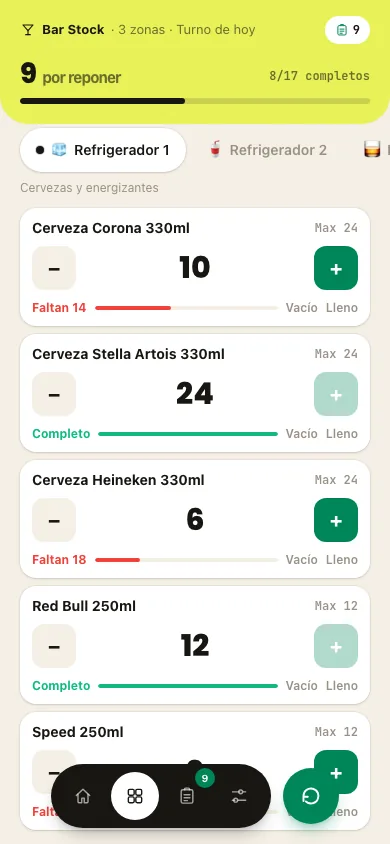
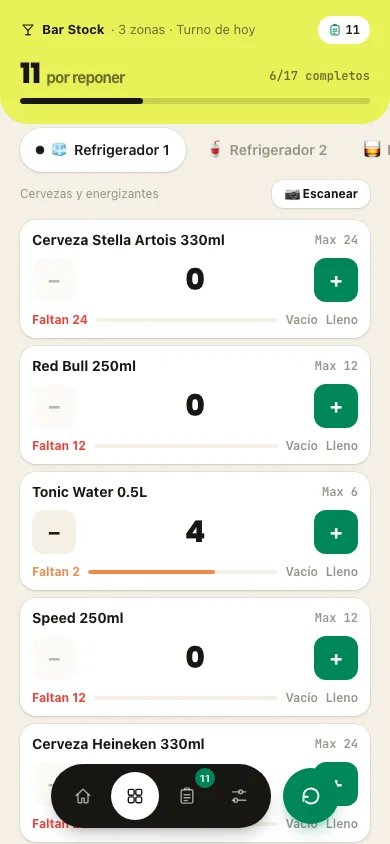
Reposition RunUp case study around AI integration
Rewrites the process/result copy and category/role/tools to foreground
the vision-based stock counting and Firestore sync work, and swaps the
zone screenshot for a real capture of the app showing the new Escanear
button.

Claude-Session: https://claude.ai/code/session_01JH2KwqAsVC85CMJ3pF2JKb

diff --git a/src/data/projects.ts b/src/data/projects.ts
@@ -303,19 +303,19 @@ export const projects: Project[] = [
 	{
 		slug: 'runup',
 		name: 'RunUp',
-		category: 'Bar Inventory · PWA',
+		category: 'AI Integration · PWA',
 		year: '2026',
 		client: 'Personal project',
-		role: 'Product Design + Development',
-		tools: 'React, Vite, Tailwind CSS',
+		role: 'Product Design + AI Integration + Development',
+		tools: 'React, Vite, Tailwind CSS, Claude API (vision), Firebase Firestore',
 		summary:
 			'An installable PWA that lets bar runners see restock status at a glance and generates an accurate shopping list from the deposit.',
 		challenge:
 			"Bars track fridge and shelf stock informally, so runners waste time re-checking what's actually missing and how much, shift after shift. When the deposit doesn't have enough of something, that shortage tends to get lost the moment the next shift starts.",
 		process:
-			"I built RunUp as a single-page installable PWA with no backend. Everything lives in one state hook and persists to the device's local storage. Each fridge or shelf is a 'zone' with its own products and ideal stock levels; the home screen shows what's empty, low, or full at a glance, and a picking list is generated automatically, grouped by zone, of exactly what to bring from the deposit. Critically, the app distinguishes between stock a runner actually restocked and a real deposit shortage, so gaps stay visible instead of quietly resetting at the next shift.",
+			"I designed and integrated the AI layer myself, not just the surrounding product. A runner photographs a fridge or shelf, and a Claude vision model returns a structured count for every expected product, using tool based output instead of free text so the result is always machine parseable. After comparing a few approaches for the counting problem, I chose calling a vision API directly over training a custom model, since it could be prototyped and validated in a real pilot without a training pipeline, accepting a small serverless function as the one piece of backend needed to keep the API key private. The design decision I care about most here is that the AI's count is never trusted directly: it surfaces on a review screen the runner can adjust bottle by bottle before anything touches real stock, because a wrong automatic count is worse than no automation at all in an inventory context. Alongside this, I built a real time sync layer with Firebase Firestore, so a scan on one runner's phone updates every other device live instead of staying an isolated local copy, which is what actually makes an automated count useful across a shift with more than one runner.",
 		result:
-			"RunUp is currently being tested by real runners during service at a bar: an active pilot, not just a prototype.",
+			"RunUp is an active pilot at a real bar, not just a prototype. The core picking-list workflow has already been in daily use by runners, and the AI photo count and multi-device sync are now shipped too, with a runner currently testing them on shift.",
 		color: '#e7f158',
 		nameColor: '#181611',
 		images: {
@@ -326,7 +326,7 @@ export const projects: Project[] = [
 			process: [
 				{
 					src: '/images/runup/zone.webp',
-					alt: 'RunUp zone view for Refrigerador 1, listing individual drinks with stock sliders from empty to full.',
+					alt: 'RunUp zone view for Refrigerador 1 with an Escanear button that lets a runner photograph the fridge for an AI-generated stock count, above a list of individual drinks with stock sliders from empty to full.',
 				},
 				{
 					src: '/images/runup/picking.webp',
